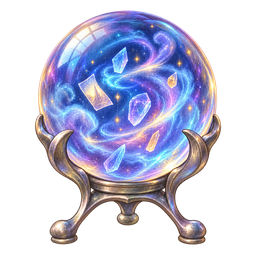
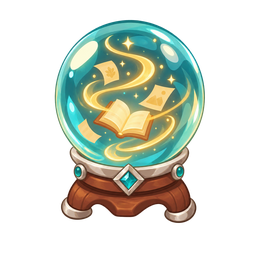
art: 风格v3扁平休闲卡特定稿——样张重生成+逐张视觉验收，mh-art基线切换（参照Casual Monsters）

diff --git a/.agents/skills/mh-art/scripts/gen_asset.py b/.agents/skills/mh-art/scripts/gen_asset.py
@@ -37,64 +37,76 @@ ARCHIVE_ROOT = os.path.join(REVIEW_ROOT, "_archived")
 ASSETS_ROOT = os.path.join("docs", "design", "assets")
 
 # ---- 项目规格表（与 SKILL.md 保持同步）----
-# 风格 v2.1（2026-08-25）：v1 暗黑厚涂被否决（"过于硬核"）；v2 基线对卡面/卡背/敌人
-# 软化不足（视觉自检仍判"金属高光、硬边、高对比厚涂"），故追加哑光/软边/禁金属高光
-# 禁颗粒质感等负面词；记忆殿堂主题与羊皮纸+古金色板保留。
-STYLE_BASE = ("cozy fantasy storybook game art, soft watercolor and gouache hand-painting, "
-              "ancient memory-palace library aesthetic, aged parchment and antique gold palette, "
-              "warm gentle candlelight glow, soft rounded shapes, low contrast matte finish, "
-              "gentle blurred edges like a children's picture book, no metallic specular "
-              "highlights, no gritty texture, whimsical friendly storybook mood")
+# 风格 v3（2026-08-25，已拍板）：v1 暗黑厚涂（"过于硬核"）、v2/v2.1 温暖绘本水彩
+# （"还是不太行"）相继被否决。用户给出参照：Unity Asset Store「2D Characters -
+# Casual Monsters」(LAYERLAB)——扁平休闲卡通：干净矢量感圆胖轮廓、无描边、双色阶
+# 阴影（底色+一层暗部）、Q 版大头比例、中饱和青绿/奶油/暖棕系、无纹理无笔触。
+# 记忆殿堂主题与功能色板（卡牌类型/状态/意图/稀有度）保留，渲染语言从"绘本水彩"
+# 整体切到"扁平卡通"。基础 UI 色已随 v3 调亮（见 10-UI美术资源规格 §1.1 v1.3）。
+STYLE_BASE = ("flat cartoon casual mobile-game art, clean rounded vector-style shapes, cute chibi "
+              "proportions, flat color fills with simple two-tone shading (one soft darker shade "
+              "under each shape), no outlines, smooth clean matte finish, moderately saturated "
+              "cozy palette of teal, cream and warm brown with antique-gold accents, memory-palace "
+              "scholar library fantasy theme, friendly playful casual mood, "
+              "no painterly brushwork, no watercolor, no storybook wash, no texture noise, "
+              "no realistic rendering, no dark hardcore mood")
 
 # 发布目录（实际应用区）：扁平无子目录——文件名自带类别前缀（prefix 字段），
 # 发布时按前缀校验命名规范；仅 docs 文档仓库适用，勿再按类型嵌套。
 SPECS = {
     "card": dict(size="1024x1536", transparent=False, resize=None,
                  review="cards", prefix="card_",
-                 style="vertical storybook illustration, single clear focal subject, calm friendly "
-                       "composition, dreamy soft watercolor-wash background, no text, no watermark"),
+                 style="vertical card illustration for a casual mobile game, one cute clear focal "
+                       "subject drawn large, simple flat background shapes, soft round shadow "
+                       "under the subject, no text, no watermark"),
     "cardback": dict(size="1024x1536", transparent=False, resize=None,
                      review="cardbacks", prefix="cardback_",
-                     style="full playing-card back design filling the whole canvas, soft rounded "
-                           "hand-painted symmetrical border, gentle watercolor wash field, softly "
-                           "glowing central emblem, delicate hand-drawn flourishes, "
-                           "no text, no watermark"),
+                     style="full playing-card back design filling the whole canvas, symmetric cute "
+                           "flat-cartoon emblem at center, chunky rounded border with simple "
+                           "geometric ornaments, flat color field with a very subtle radial glow "
+                           "behind the emblem, clean casual style, no text, no watermark"),
     "icon": dict(size="1024x1024", transparent=True, resize="256x256",
                  review="icons", prefix="icon_",
-                 style="flat fantasy storybook game icon, centered composition, bold readable silhouette, "
-                       "glowing accent color, plain transparent background, no text, no watermark"),
+                 style="flat casual game icon, centered composition, thick rounded chunky silhouette, "
+                       "instantly readable at small size, one accent color with a single soft "
+                       "darker shade, plain transparent background, no text, no watermark"),
     "relic": dict(size="1024x1024", transparent=True, resize="256x256",
                   review="relics", prefix="relic_",
-                  style="flat fantasy storybook game icon of a small magical artifact, centered, bold "
-                        "readable silhouette, soft glow, plain transparent background, "
-                        "no text, no watermark"),
+                  style="flat casual game icon of a small magical artifact, centered, cute stylized "
+                        "prop with thick rounded chunky silhouette, one soft darker shade for "
+                        "depth, plain transparent background, no text, no watermark"),
     "potion": dict(size="1024x1024", transparent=True, resize="256x256",
                    review="potions", prefix="potion_",
-                   style="flat fantasy storybook game icon of an alchemy potion bottle, centered, bold "
-                         "readable silhouette, glass and liquid glow, plain transparent background, "
-                         "no text, no watermark"),
+                   style="flat casual game icon of a cute alchemy potion bottle, centered, thick "
+                         "rounded chunky silhouette, glossy flat liquid color, plain transparent "
+                         "background, no text, no watermark"),
     "node": dict(size="1024x1024", transparent=True, resize="256x256",
                  review="map-nodes", prefix="node_",
-                    style="flat fantasy storybook map node emblem, centered, bold readable silhouette, "
-                          "plain transparent background, no text, no watermark"),
+                    style="flat casual map node emblem, centered, thick rounded chunky shape, "
+                          "bold readable silhouette, plain transparent background, "
+                          "no text, no watermark"),
     "enemy": dict(size="1024x1024", transparent=True, resize=None,
                   review="enemies", prefix="enemy_",
-                  style="single friendly picture-book fantasy monster, full body, centered, facing "
-                        "viewer, rounded soft cartoonish design, mischievous but not scary, "
-                        "transparent background, no text, no watermark"),
+                  style="single cute casual-cartoon fantasy monster, full body, centered, facing "
+                        "viewer, big-head chibi proportions, chunky rounded silhouette, friendly "
+                        "mischievous expression, flat two-tone shading, soft round shadow under "
+                        "feet, transparent background, no text, no watermark"),
     "portrait": dict(size="1024x1536", transparent=True, resize=None,
                      review="portraits", prefix="portrait_",
-                     style="full body friendly storybook character, centered, facing viewer, gentle "
-                           "confident pose, rounded soft design, transparent background, "
+                     style="full body cute casual-cartoon character, centered, facing viewer, "
+                           "big-head chibi proportions, friendly confident pose, chunky rounded "
+                           "silhouette, flat two-tone shading, transparent background, "
                            "no text, no watermark"),
     "background": dict(size="2048x1152", transparent=False, resize="1920x1080",
                        review="backgrounds", prefix="bg_",
-                       style="wide scene illustration, soft depth, empty center area for UI, "
-                             "no characters, no text, no watermark"),
+                       style="wide flat cartoon scene for a casual game, simple stylized "
+                             "environment built from rounded shapes, layered flat colors for "
+                             "gentle depth, empty center area for UI, no characters, no text, "
+                             "no watermark"),
     "texture": dict(size="1024x1024", transparent=False, resize="256x256",
                     review="textures", prefix="texture_",
-                    style="seamless tileable texture, evenly lit, no vignette, no shadows at "
-                          "edges, no text, no watermark"),
+                    style="seamless tileable flat cartoon texture, evenly lit flat colors, "
+                          "no vignette, no shadows at edges, no text, no watermark"),
 }
 
 

diff --git a/.agents/skills/mh-art/SKILL.md b/.agents/skills/mh-art/SKILL.md
@@ -48,18 +48,18 @@ description: 《记忆勇者》设计文档仓库专属 AI 生图——按 docs/
 
 ## 风格基线
 
-源自 [09-UI设计规范 §1](../../../docs/design/09-UI设计规范.md)「记忆殿堂」视觉定位：记忆殿堂主题 + 学术羊皮纸 + 古金点缀。所有 prompt 以此为底，保证新旧资产同风格。
+源自 [09-UI设计规范 §1](../../../docs/design/09-UI设计规范.md)「记忆殿堂」视觉定位：记忆殿堂主题 + 古金点缀。所有 prompt 以此为底，保证新旧资产同风格。
 
-> **风格 v2.1（2026-08-25）**：v1 暗黑厚涂（dark fantasy painterly）被用户否决——"过于硬核"。v2 软化后视觉自检发现卡面/卡背/立绘仍偏硬朗（金属高光、硬边、高对比），v2.1 追加**哑光、软边、禁金属高光、禁颗粒质感**负面词，并把这些类型的片段改为"绘本化"措辞（calm friendly / rounded soft / hand-painted border）。主题与色板不变，只换渲染语言。09 §1 文档待样张定稿后同步改写。
+> **风格 v3（2026-08-25）**：v1 暗黑厚涂（"过于硬核"）与 v2/v2.1 温暖绘本水彩（"还是不太行"）相继被否决。用户给出参照：Unity Asset Store「2D Characters - Casual Monsters」(LAYERLAB)。v3 定调**扁平休闲卡通**——干净矢量感圆胖轮廓、无描边、双色阶阴影（底色+一层软暗部）、Q 版大头比例、中饱和青绿/奶油/暖棕系、无纹理无笔触。主题与卡牌类型/状态/意图/稀有度等功能色板不变，只换渲染语言。样张已拍板（2026-08-25），09 §1 视觉定位与 10 §1.1 基础 UI 色已同步改写为明快奶油纸/暖金木底（新增辅助强调静谧青 #7FB5AC）。
 
-- **全局基线（EN，拼在最前）**：`cozy fantasy storybook game art, soft watercolor and gouache hand-painting, ancient memory-palace library aesthetic, aged parchment and antique gold palette, warm gentle candlelight glow, soft rounded shapes, low contrast matte finish, gentle blurred edges like a children's picture book, no metallic specular highlights, no gritty texture, whimsical friendly storybook mood`
-- **卡面**：`vertical storybook illustration, single clear focal subject, calm friendly composition, dreamy soft watercolor-wash background, no text, no watermark`
-- **卡背**：`full playing-card back design filling the whole canvas, soft rounded hand-painted symmetrical border, gentle watercolor wash field, softly glowing central emblem, delicate hand-drawn flourishes, no text, no watermark`（desc 里必须给类型色 hex，见 asset-specs 色板）
-- **图标（icon/relic/potion/node）**：`flat fantasy storybook game icon, centered composition, bold readable silhouette, glowing accent color, plain transparent background, no text, no watermark`
-- **敌人**：`single friendly picture-book fantasy monster, full body, centered, facing viewer, rounded soft cartoonish design, mischievous but not scary, transparent background, no text, no watermark`
-- **角色**：`full body friendly storybook character, centered, facing viewer, gentle confident pose, rounded soft design, transparent background, no text, no watermark`
-- **背景**：`wide scene illustration, soft depth, empty center area for UI, no characters, no text, no watermark`
-- **纹理**：`seamless tileable texture, evenly lit, no vignette, no text`
+- **全局基线（EN，拼在最前）**：`flat cartoon casual mobile-game art, clean rounded vector-style shapes, cute chibi proportions, flat color fills with simple two-tone shading (one soft darker shade under each shape), no outlines, smooth clean matte finish, moderately saturated cozy palette of teal, cream and warm brown with antique-gold accents, memory-palace scholar library fantasy theme, friendly playful casual mood, no painterly brushwork, no watercolor, no storybook wash, no texture noise, no realistic rendering, no dark hardcore mood`
+- **卡面**：`vertical card illustration for a casual mobile game, one cute clear focal subject drawn large, simple flat background shapes, soft round shadow under the subject, no text, no watermark`
+- **卡背**：`full playing-card back design filling the whole canvas, symmetric cute flat-cartoon emblem at center, chunky rounded border with simple geometric ornaments, flat color field with a very subtle radial glow behind the emblem, clean casual style, no text, no watermark`（desc 里必须给类型色 hex，见 asset-specs 色板）
+- **图标（icon/relic/potion/node）**：`flat casual game icon, centered composition, thick rounded chunky silhouette, instantly readable at small size, one accent color with a single soft darker shade, plain transparent background, no text, no watermark`
+- **敌人**：`single cute casual-cartoon fantasy monster, full body, centered, facing viewer, big-head chibi proportions, chunky rounded silhouette, friendly mischievous expression, flat two-tone shading, soft round shadow under feet, transparent background, no text, no watermark`
+- **角色**：`full body cute casual-cartoon character, centered, facing viewer, big-head chibi proportions, friendly confident pose, chunky rounded silhouette, flat two-tone shading, transparent background, no text, no watermark`
+- **背景**：`wide flat cartoon scene for a casual game, simple stylized environment built from rounded shapes, layered flat colors for gentle depth, empty center area for UI, no characters, no text, no watermark`
+- **纹理**：`seamless tileable flat cartoon texture, evenly lit flat colors, no vignette, no shadows at edges, no text`
 
 中文 prompt 同样可用，但保持上述关键词的英文版拼入更稳。
 
